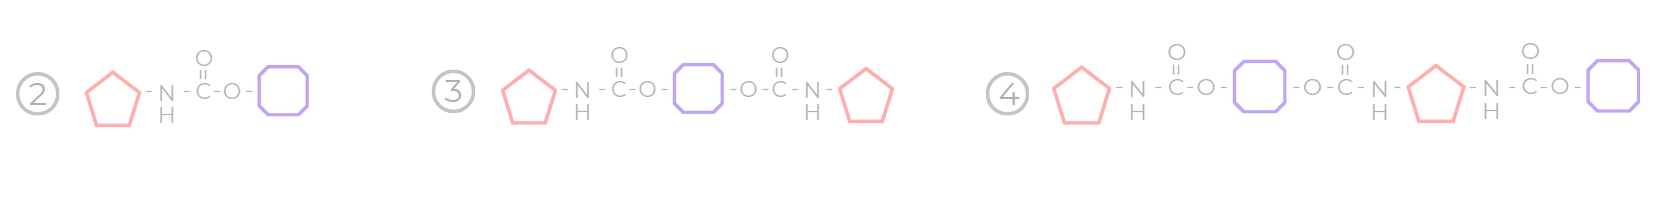
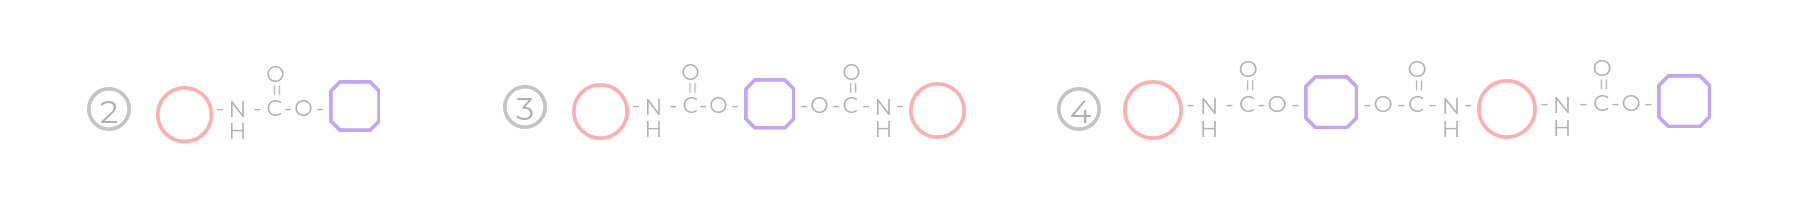
Layout update

diff --git a/layouts.py b/layouts.py
@@ -23,16 +23,17 @@ def create_checkbox_list(options, all_options, table_title, table_id, checkall_i
                                   value=[],)
                     ])
 
-def create_switch_with_label(label_text, switch_id):
+def create_switch_with_label(label_text, switch_id,image_source):
     return html.Div([
         daq.BooleanSwitch(
             id=switch_id,
             on=False
         ),
-        html.H4(
+        html.Div([html.H4(
             label_text,
             className = 'switch-label'
         ),
+        html.Img(src=image_source, style={'height': '50px','width': 'auto', 'margin-left':'15px'})])
     ], style={'display': 'flex', 'align-items': 'left'})
     
 def create_upload_component():
@@ -55,12 +56,13 @@ def create_upload_component():
 def create_select_size_component():
     return html.Div([
         html.H3("SELECT SIZE", className='run-select-text'),
+        html.H4(children=[],className='run-select-info-text', id='size-info'),
         dcc.RadioItems(
             id='select-size',
             options=[
-                {'label': '2 units', 'value': '2'},
-                {'label': '3 units', 'value': '3'},
-                {'label': '4 units', 'value': '4'},
+                {'label': html.Label(['2 units', html.Img(src='assets/size-2.png', style={'height': '50px','width': 'auto', 'margin-left':'15px', 'margin-bottom':'-10px'})]), 'value': '2'},
+                {'label': html.Label(['3 units', html.Img(src='assets/size-3.png', style={'height': '50px','width': 'auto', 'margin-left':'15px', 'margin-bottom':'-10px'})]), 'value': '3'},
+                {'label': html.Label(['4 units', html.Img(src='assets/size-4.png', style={'height': '50px','width': 'auto', 'margin-left':'15px', 'margin-bottom':'-10px'})]), 'value': '4'},
             ],
             value='2',  # Default selected value
             labelStyle={

diff --git a/pages/run.py b/pages/run.py
@@ -25,8 +25,8 @@ layout = html.Div(style={'display': 'flex'},
             children = [html.H3("SELECT SUBSTRATES",className='run-select-text'),
                         html.H4("Choose at least one isocyanate and one hydroxyl compound.",
                                 className='run-select-info-text'),
-                        layouts.create_switch_with_label('show isocyanates','switch-isocyanate'),
-                        layouts.create_switch_with_label('show hydroxyl compounds','switch-hydroxyl'),
+                        layouts.create_switch_with_label('show isocyanates','switch-isocyanate','assets/isocyanates.png'),
+                        layouts.create_switch_with_label('show hydroxyl compounds','switch-hydroxyl','assets/polyols.png'),
                         layouts.create_upload_component(),
                         dcc.Store(id='store-substrates'),
                         layouts.create_select_size_component(),
@@ -88,6 +88,19 @@ def select_all_none(select_all_isocyanate_value, select_all_hydroxyl_value,
     all_isocyanate = [option["value"] for option in options_isocyanate if select_all_isocyanate_value]
     all_hydroxyl = [option["value"] for option in options_hydroxyl if select_all_hydroxyl_value]
     return all_isocyanate, all_hydroxyl
+
+
+#Info regarding substrates depending on size
+@callback(
+        Output('size-info', 'children'),
+        Input('select-size', 'value')
+)
+
+def info_about_size(size):
+    if size == '3':
+        return ['Choose at least one diisocyanate or at least one diol.']
+    elif size == '4':
+        return ['Choose at least one diisocyanate and at least one diol.']
 
 # Define callback to validate uploaded input 
 # and store uploaded substrates together with selected substrates

diff --git a/pages/home.py b/pages/home.py
@@ -25,8 +25,10 @@ layout = html.Div(
                        Szleper K., Raczyńska A., Góra A., 2024''', 
                        href='http://www.doi.pl/',className='homepage-publication-link'),
                 
-                html.Img(src='assets/PUR.png',
-                         style={'width': '100%','opacity':'0.3','margin-top': '50px'}),
+              #   html.Img(src='assets/PUR.png',
+              #            style={'width': '100%','opacity':'0.3','margin-top': '50px'}),
+                html.Img(src='assets/abstract.png',
+                         style={'width': '40%','margin-top': '10px', 'margin-bottom':'10px'}),
                          
                 html.H3("Contact Information", className = 'contact-info'),
                 html.H3("Katarzyna Szleper", className = 'email-info'),
